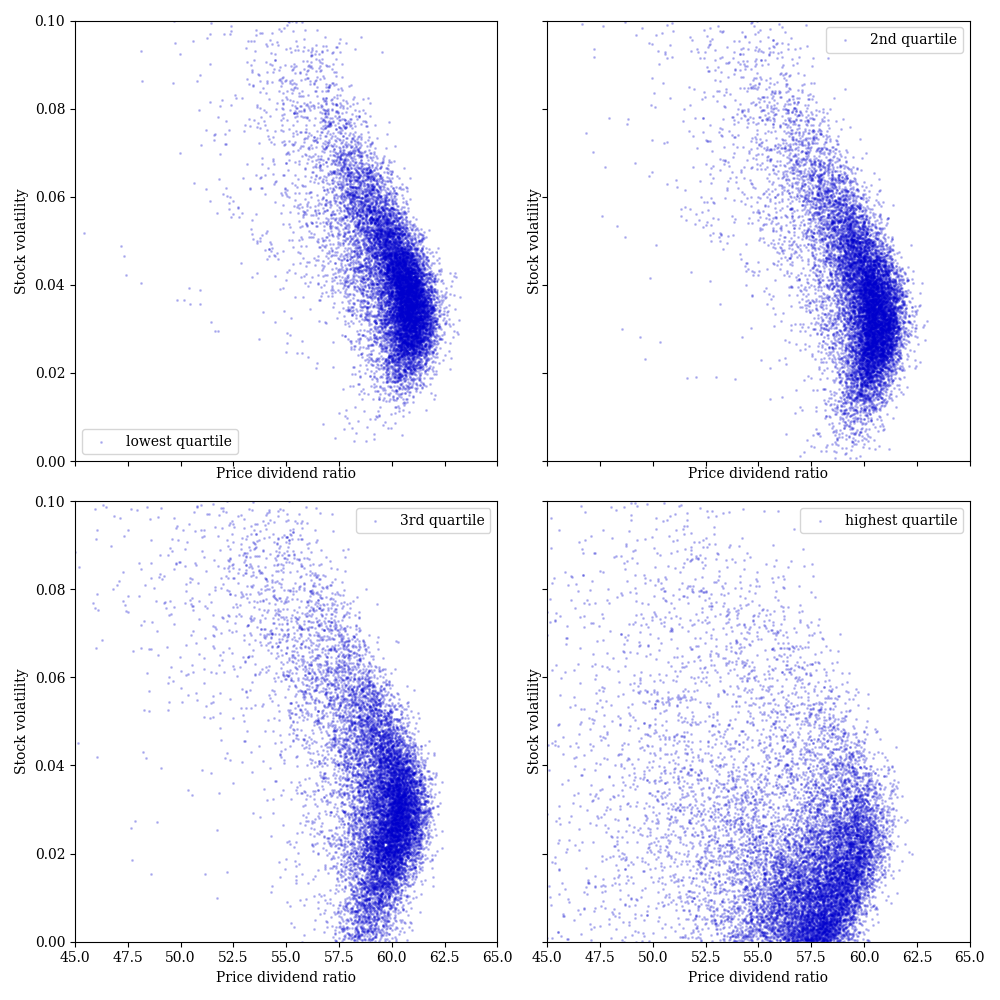
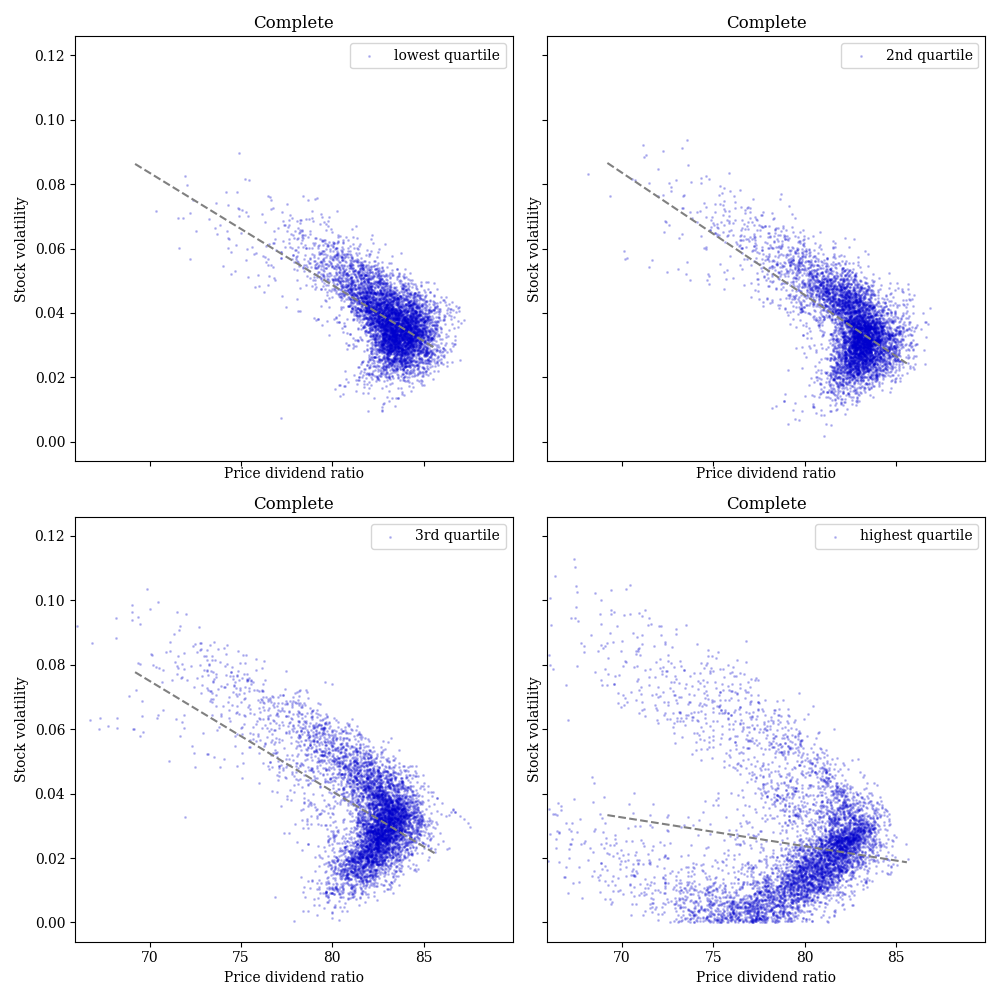
beta->pd

diff --git a/tab1_multiprocessing.py b/tab1_multiprocessing.py
@@ -12,10 +12,10 @@ import pandas as pd
 keep_data = int(Nt - 200 / dt)
 np.seterr(invalid='ignore')
 
-# Mpath = 1000
+Mpath = 500
 
 def simulate_mean_vola_path(i: int,
-                            Nscenario=3,
+                            Nscenario=4,
                             ):
     print(i)
     # Initialize results for the current Mpath
@@ -24,7 +24,7 @@ def simulate_mean_vola_path(i: int,
     r_mean_vola_results = np.zeros((Nscenario, 2))
     mu_S_mean_vola_results = np.zeros((Nscenario, 2))
     sigma_S_mean_vola_results = np.zeros((Nscenario, 2))
-    beta_mean_vola_results = np.zeros((Nscenario, 2))
+    pd_mean_vola_results = np.zeros((Nscenario, 2))
     theta_save_mean_vola_results = np.zeros((Nscenario, 2, 2))
     sigma_S_save_mean_vola_results = np.zeros((Nscenario, 4, 2))
     parti_age_group_mean_vola_results = np.zeros((Nscenario, 4))
@@ -54,7 +54,7 @@ def simulate_mean_vola_path(i: int,
                 r_mean_vola,
                 mu_S_mean_vola,
                 sigma_S_mean_vola,
-                beta_mean_vola,
+                pd_mean_vola,
                 theta_save_mean_vola,
                 sigma_S_save_mean_vola,
                 parti_age_group_mean_vola,
@@ -97,7 +97,7 @@ def simulate_mean_vola_path(i: int,
                 r_mean_vola,
                 mu_S_mean_vola,
                 sigma_S_mean_vola,
-                beta_mean_vola,
+                pd_mean_vola,
                 theta_save_mean_vola,
                 sigma_S_save_mean_vola,
                 parti_age_group_mean_vola,
@@ -137,7 +137,7 @@ def simulate_mean_vola_path(i: int,
         r_mean_vola_results[g] = r_mean_vola
         mu_S_mean_vola_results[g] = mu_S_mean_vola
         sigma_S_mean_vola_results[g] = sigma_S_mean_vola
-        beta_mean_vola_results[g] = beta_mean_vola
+        pd_mean_vola_results[g] = pd_mean_vola
         theta_save_mean_vola_results[g] = theta_save_mean_vola
         sigma_S_save_mean_vola_results[g] = sigma_S_save_mean_vola
         parti_age_group_mean_vola_results[g] = parti_age_group_mean_vola
@@ -154,7 +154,7 @@ def simulate_mean_vola_path(i: int,
         r_mean_vola_results,
         mu_S_mean_vola_results,
         sigma_S_mean_vola_results,
-        beta_mean_vola_results,
+        pd_mean_vola_results,
         theta_save_mean_vola_results,
         sigma_S_save_mean_vola_results,
         parti_age_group_mean_vola_results,
@@ -180,7 +180,7 @@ def main():
         r_mean_vola_results, \
         mu_S_mean_vola_results, \
         sigma_S_mean_vola_results, \
-        beta_mean_vola_results, \
+        pd_mean_vola_results, \
         theta_save_mean_vola_results, \
         sigma_S_save_mean_vola_results, \
         parti_age_group_mean_vola_results, \
@@ -196,7 +196,7 @@ def main():
             "r_mean_vola": r_mean_vola_results,
             "mu_S_mean_vola": mu_S_mean_vola_results,
             "sigma_S_mean_vola": sigma_S_mean_vola_results,
-            "beta_mean_vola": beta_mean_vola_results,
+            "pd_mean_vola": pd_mean_vola_results,
             "theta_compo_mean_vola": theta_save_mean_vola_results,
             "sigma_S_save_mean_vola": sigma_S_save_mean_vola_results,
             "parti_age_group": parti_age_group_mean_vola_results,

diff --git a/main.py b/main.py
@@ -38,7 +38,7 @@ data_include = np.arange(0, Nt, 12)
 titles = ['Complete', 'Reentry', 'Mix-4', 'Mix-BC']
 quartiles = ['lowest quartile', '2nd quartile', '3rd quartile', 'highest quartile']
 
-for ii, var in enumerate(file_pd_list[3:8]):
+for ii, var in enumerate(file_pd_list[3:6]):
     state_var = results_pd[var]
     for jj in range(4):
         if ii > 2 and jj == 0:
@@ -50,6 +50,23 @@ for ii, var in enumerate(file_pd_list[3:8]):
             title = titles[jj]
             x_range = np.quantile(pd[:, jj, data_include], ([0.01, 0.99]))
             x_use = np.linspace(x_range[0], x_range[1], 100)
+            if jj == 0:
+                print(r'Constant ' + r'PD_ratio ' + var + r' interaction')
+            if jj <= 2:
+                y_interact = np.reshape(vola[:, jj, data_include], (-1, 1))
+                x_interact = np.reshape(pd[:, jj, data_include], (-1, 1))
+                interact = np.reshape(state_var[:, jj, data_include], (-1, 1))
+                x_cross = x_interact * interact
+                x_interact = (x_interact - np.average(x_interact)) / np.std(x_interact)
+                interact = (interact - np.average(interact)) / np.std(interact)
+                x_cross = (x_cross - np.average(x_cross)) / np.std(x_cross)
+                x_interact = np.append(x_interact, interact, axis=1)
+                x_interact = np.append(x_interact, x_cross, axis=1)
+                x_interact = sm.add_constant(x_interact)
+                model = sm.OLS(y_interact, x_interact)
+                est = model.fit()
+                print(title)
+                print(est.params)
             for i, rows in enumerate(axes):
                 for j, ax in enumerate(rows):
                     ax.set_xlabel('Price dividend ratio')
@@ -74,7 +91,7 @@ for ii, var in enumerate(file_pd_list[3:8]):
                                label=quartiles[counter])
                     ax.plot(x_use, y_use, linestyle='dashed', color='gray')
                     ax.legend()
-                    # ax.set_xlim(80, 120)
+                    ax.set_xlim(x_range[0] / 1.05, x_range[1] * 1.05)
                     # if jj == 0:
                     #     ax.set_ylim(-0.01, 0.14)
                     # else:

diff --git a/src/cohort_simulator.py b/src/cohort_simulator.py
@@ -683,7 +683,7 @@ def simulate_cohorts_mean_vola(
     r_matrix = np.array([np.mean(r), np.std(r)])
     mu_S_matrix = np.array([np.mean(mu_S), np.std(mu_S)])
     sigma_S_matrix = np.array([np.mean(sigma_S), np.std(sigma_S)])
-    beta_matrix = np.array([np.mean(beta), np.std(beta)])
+    pd_matrix = np.array([np.mean(1/beta), np.std(1/beta)])
 
     Delta_bar_parti_matrix = np.array([np.mean(Delta_bar_parti), np.std(Delta_bar_parti)])
     Delta_tilde_bar_parti = Delta_tilde_parti - Delta_bar_parti
@@ -772,7 +772,7 @@ def simulate_cohorts_mean_vola(
         r_matrix,
         mu_S_matrix,
         sigma_S_matrix,
-        beta_matrix,
+        pd_matrix,
         theta_save_matrix,
         sigma_S_save_matrix,
         parti_age_group_matrix,
@@ -1387,7 +1387,7 @@ def simulate_mean_vola_mix_type(
     r_matrix = np.array([np.mean(r), np.std(r)])
     mu_S_matrix = np.array([np.mean(mu_S), np.std(mu_S)])
     sigma_S_matrix = np.array([np.mean(sigma_S), np.std(sigma_S)])
-    beta_matrix = np.array([np.mean(beta), np.std(beta)])
+    pd_matrix = np.array([np.mean(1/beta), np.std(1/beta)])
 
     Delta_bar_parti_matrix = np.array([np.mean(Delta_bar_parti), np.std(Delta_bar_parti)])
     Delta_tilde_bar_parti = Delta_tilde_parti - Delta_bar_parti
@@ -1470,7 +1470,7 @@ def simulate_mean_vola_mix_type(
         r_matrix,
         mu_S_matrix,
         sigma_S_matrix,
-        beta_matrix,
+        pd_matrix,
         theta_save_matrix,
         sigma_S_save_matrix,
         parti_age_group_matrix,

diff --git a/src/simulation.py b/src/simulation.py
@@ -350,7 +350,7 @@ def simulate_SI_mean_vola(
         r_matrix,
         mu_S_matrix,
         sigma_S_matrix,
-        beta_matrix,
+        pd_matrix,
         theta_save_matrix,
         sigma_S_save_matrix,
         parti_age_group_matrix,
@@ -398,7 +398,7 @@ def simulate_SI_mean_vola(
         r_matrix,
         mu_S_matrix,
         sigma_S_matrix,
-        beta_matrix,
+        pd_matrix,
         theta_save_matrix,
         sigma_S_save_matrix,
         parti_age_group_matrix,
@@ -752,7 +752,7 @@ def simulate_mix_mean_vola(
         r_matrix,
         mu_S_matrix,
         sigma_S_matrix,
-        beta_matrix,
+        pd_matrix,
         theta_save_matrix,
         sigma_S_save_matrix,
         parti_age_group_matrix,
@@ -799,7 +799,7 @@ def simulate_mix_mean_vola(
         r_matrix,
         mu_S_matrix,
         sigma_S_matrix,
-        beta_matrix,
+        pd_matrix,
         theta_save_matrix,
         sigma_S_save_matrix,
         parti_age_group_matrix,
